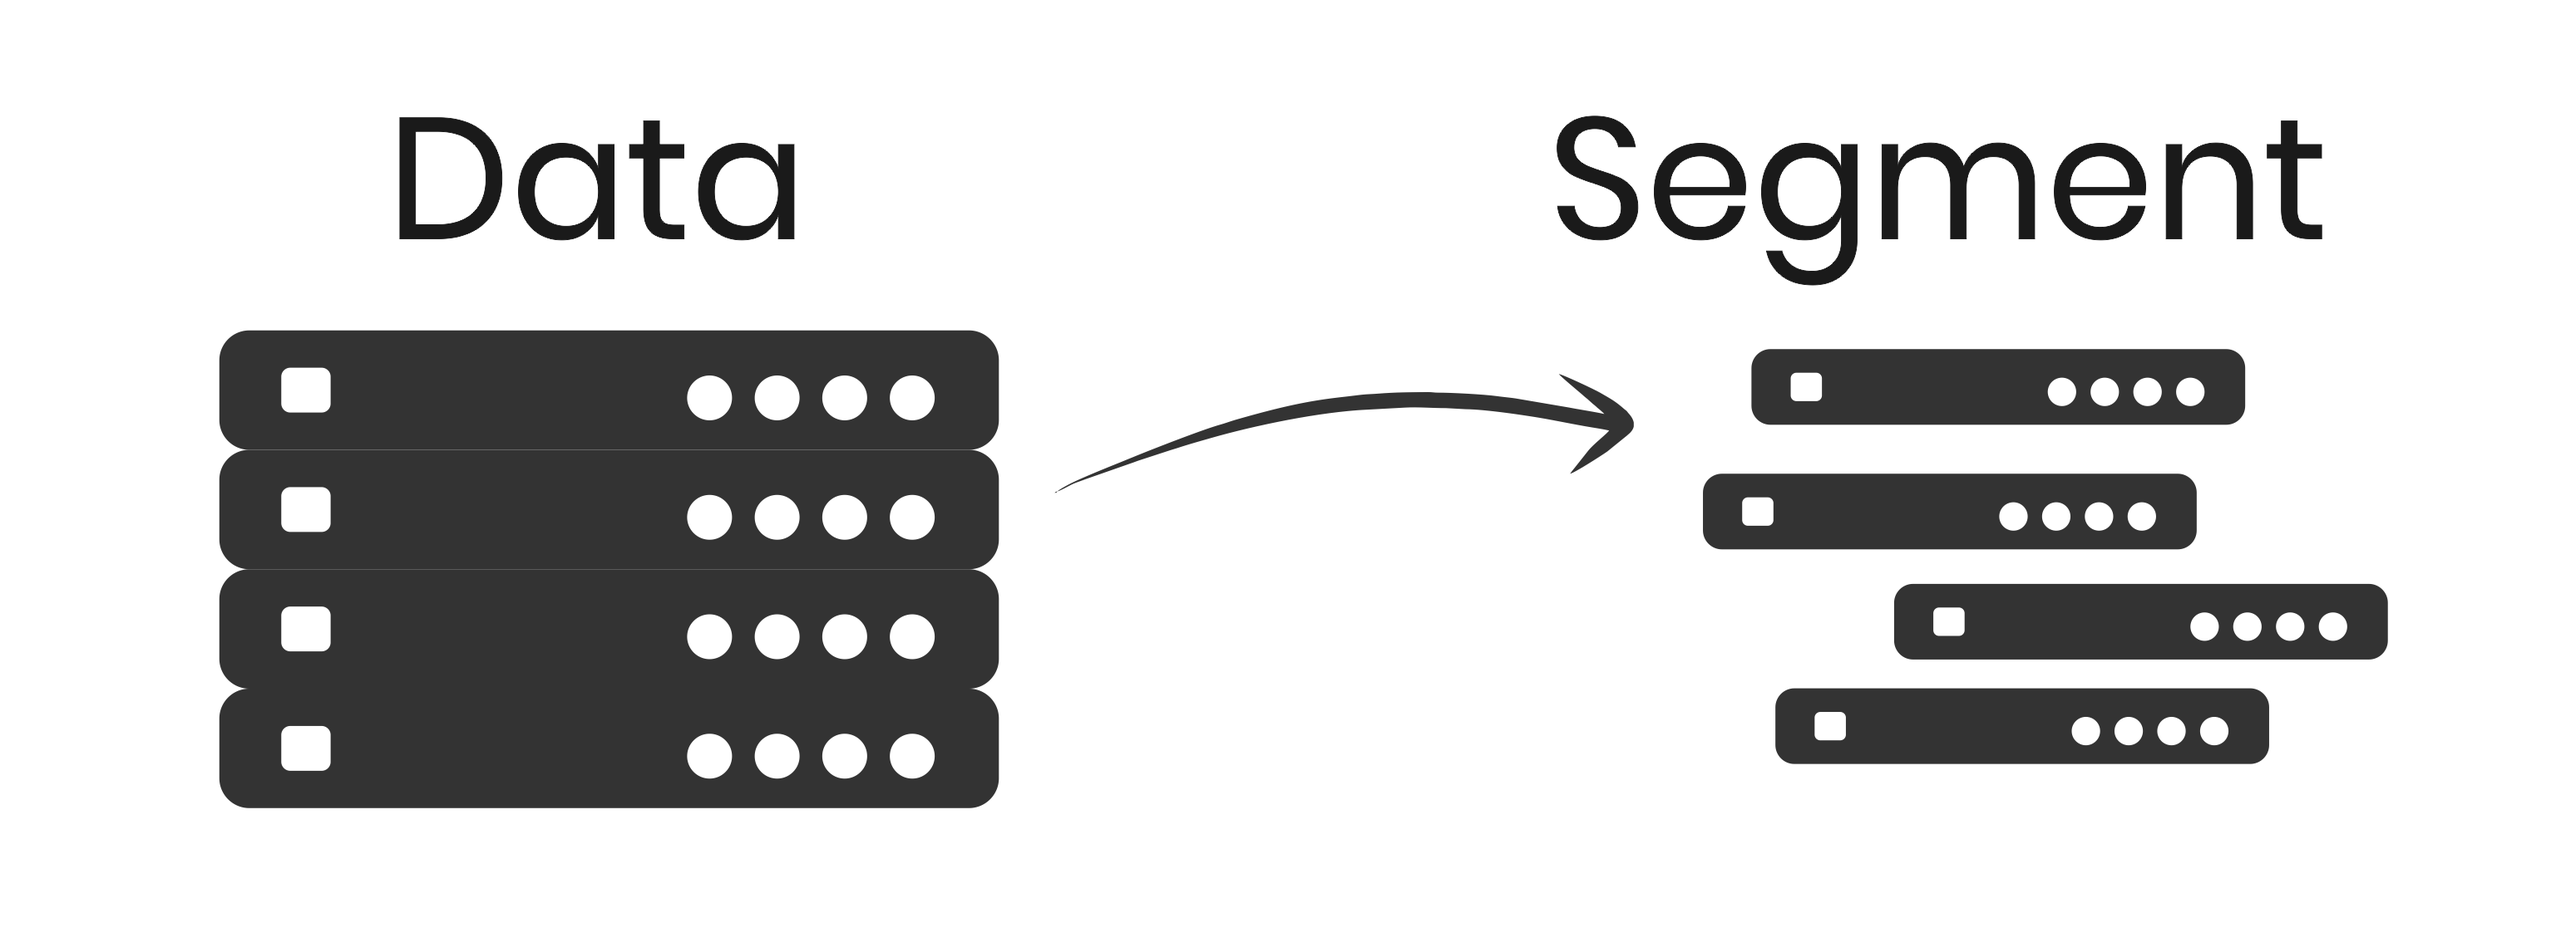
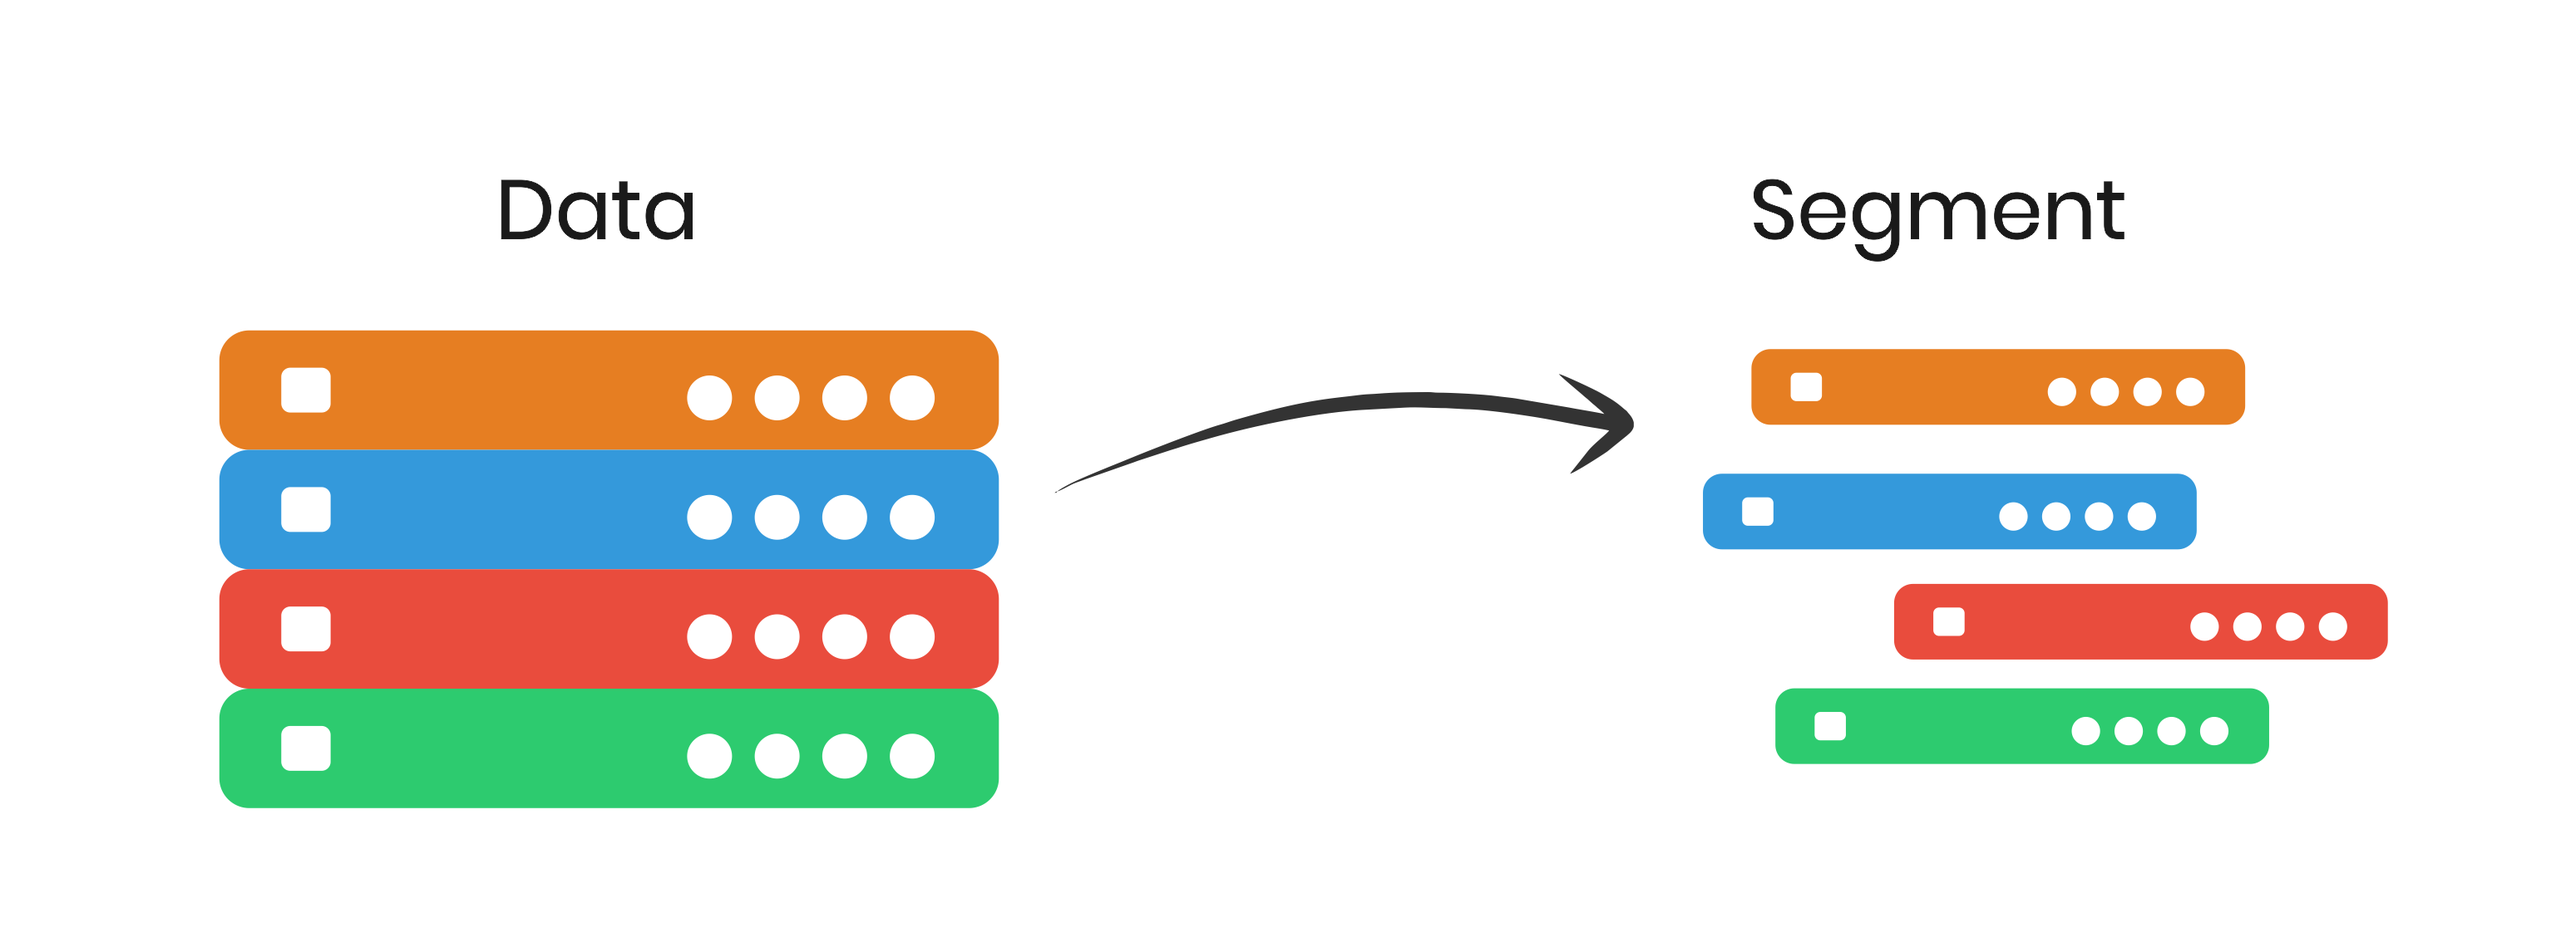
benerin logic soal dan layout materi

diff --git a/src/components/loopingsoal.jsx b/src/components/loopingsoal.jsx
@@ -93,8 +93,15 @@ const Contohsoal = ({
 
   const semuaSudahDijawab = jawaban.every((j) => j !== "");
 
+  const actionWrapperClass = singleSoal
+  ? "w-full md:w-1/4 md:fixed md:right-20 md:top-24 flex flex-col gap-3 p-4 border rounded-xl"
+  : "w-3/4 flex flex-col gap-3 p-4 mt-6";
+
+  const bolehNext = semuaSudahDijawab && (singleSoal || sudahDikoreksi);
+  const warnaNextButton = !bolehNext ? 'bg-gray-300 text-gray-600 cursor-not-allowed' : 'bg-green-500 text-white'
+
   return (
-    <div className="p-4 md:p-6 -mt-4 w-full">
+    <div className="md:p-6 md:-mt-4 w-full">
 
       {/* ================= POPUP NAMA ================= */}
       {showNamaPopup && (
@@ -111,12 +118,12 @@ const Contohsoal = ({
       <p className="text-2xl font-semibold">{JudulSoal}</p>
 
       {/* ================= KONTEN ================= */}
-      <section className="mt-4 w-full flex flex-col md:flex-row gap-6">
+      <section className="mt-4 w-full flex flex-col gap-6">
         
         {/* ===== SOAL ===== */}
         <div className="w-full md:w-3/4 flex flex-col gap-4">
         {showCountdown && (
-            <div className="md:hidden bg-white p-2 rounded block fixed right-5 top-16">
+            <div className="showCOuntDownMobile md:hidden bg-white p-2 rounded block fixed right-5 top-16">
               <p>Siswa waktu :</p>
             <Countdown
               value={formatTime(countdown)}
@@ -127,10 +134,10 @@ const Contohsoal = ({
             </div>
           )}
           {daftarSoal.map((soal, index) => (
-            <div key={index}>
+            <div key={index} className="flex flex-col p-4">
               <h1>{soal.pertanyaan}</h1>
 
-              <form className="mt-4 space-y-2">
+              <form className="space-y-2">
                 {soal.pilihanJawaban.map((pilihan, i) => (
                   <div key={i} className="flex gap-3 items-center">
                     <input
@@ -170,42 +177,38 @@ const Contohsoal = ({
           )}
         </div>
 
-        <div className="w-full md:w-1/4 md:fixed md:right-20 md:top-24 flex flex-col gap-3 p-4 border rounded-xl">
-          
-          {showCountdown && (
-            <div className="hidden md:block">
-              <p>Sisa waktu mengerjakan :</p>
-              <Countdown
-                value={formatTime(countdown)}
-                as="div"
-                size="text-5xl"
-                color="text-gray-700"
-                />
-            </div>
-          )}
+        <div className={actionWrapperClass}>
+        {showCountdown && singleSoal && (
+          <div className="hidden md:flex md:flex-col">
+            <p>Sisa waktu mengerjakan :</p>
+            <Countdown
+              value={formatTime(countdown)}
+              as="div"
+              size="text-5xl"
+              color="text-gray-700"
+            />
+          </div>
+        )}
 
-          <button
-            onClick={handleCheckAll}
-            disabled={!semuaSudahDijawab}
-            className="p-2 rounded bg-blue-500 text-white"
-          >
-            Cek Jawaban
-          </button>
+        <button
+          onClick={handleCheckAll}
+          disabled={!semuaSudahDijawab}
+          className="p-2 rounded bg-blue-500 text-white"
+        >
+          Cek Jawaban
+        </button>
 
-          {showNextButton && (
+        {showNextButton && (
           <button
             onClick={handleNext}
-            disabled={!semuaSudahDijawab}
-            className={`p-2 rounded ${
-              semuaSudahDijawab
-                ? "bg-green-500 text-white"
-                : "bg-gray-300 text-gray-600 cursor-not-allowed"
-            }`}
+            disabled={!bolehNext}
+            className={`p-2 rounded transition-colors duration-200 ${warnaNextButton}`}
           >
             Selanjutnya
           </button>
-          )}
-        </div>
+        )}
+      </div>
+
       </section>
 
       {/* ================= POPUP HASIL ================= */}

diff --git a/src/components/materi/datalinkLayer.jsx b/src/components/materi/datalinkLayer.jsx
@@ -2,6 +2,8 @@ import LogicMateri from '../materi1';
 import Contohsoal from '../loopingsoal';
 import dataLink from '../../assets/data-link.png'
 import dataLink2 from '../../assets/data-link2.png'
+import dataLinkMobile from '../../assets/data-link3.png'
+import dataLink3 from '../../assets/datalink.png'
 
 const DataLinkLayer = () => {
     return(
@@ -11,18 +13,26 @@ const DataLinkLayer = () => {
                     judulMateri: 'Data-Link Layer',
                     konten: [
                     { tipe: 'paragraf', isi: 'Data Link Layer berada satu tingkat di atas Physical Layer. Pada lapisan ini, sinyal mentah yang dikirimkan oleh Physical Layer mulai diorganisir menjadi frame, sehingga data dapat dikirim dan diterima dengan lebih andal antar perangkat yang terhubung langsung dalam satu jaringan lokal (LAN).' },
-                    { tipe: 'gambar', width:"md:w-3/4", url: dataLink, caption: 'Ilustrasi pengubahan data ke bentuk frame' },
+                    { tipe: 'gambar', width:"md:w-3/4", display:"hidden md:block", url: dataLink},
+                    { tipe: 'gambar', width:"md:w-full", display:"block md:hidden", url: dataLinkMobile, caption: 'Ilustrasi pengubahan data ke bentuk frame' },
                     {
                         tipe: 'layout',
                         arah: 'col',
                         items:[
-
-                            { tipe: 'gambar', width:"md:w-full", url: dataLink2, caption: 'ilustrasi penyebaran data menggunakan switch' },
-                            { tipe: 'paragraf', isi: 'Fungsi utama Data Link Layer meliputi pengalamatan fisik menggunakan MAC Address, pengendalian aliran data, serta pendeteksian kesalahan (error detection) menggunakan metode seperti CRC atau FCS. Layer ini juga mengatur kapan suatu perangkat boleh mengirimkan data agar tidak terjadi tabrakan data (collision).' },
+                            { tipe: 'gambar', width:"md:w-1/2 w-full", url: dataLink2, caption: 'ilustrasi penyebaran data menggunakan switch' },
+                            { tipe: 'paragraf', width:"md:w-1/2 w-full", isi: 'Fungsi utama Data Link Layer meliputi pengalamatan fisik menggunakan MAC Address, pengendalian aliran data, serta pendeteksian kesalahan (error detection) menggunakan metode seperti CRC atau FCS. Layer ini juga mengatur kapan suatu perangkat boleh mengirimkan data agar tidak terjadi tabrakan data (collision).' },
                         ]
                     },
                     { tipe: 'paragraf', isi: 'Contoh protokol dan perangkat yang bekerja pada Data Link Layer antara lain Ethernet, PPP, dan Switch. Dalam analogi belanja online, Data Link Layer berperan seperti petugas pos lokal yang memastikan alamat rumah penerima sudah benar sebelum paket dikirim lebih jauh.' },
-                    ]
+                    {
+                        tipe: 'layout',
+                        arah: 'col',
+                        items:[
+                            { tipe: 'gambar', width:"md:w-1/2 w-full", url: dataLink3, caption: 'ilustrasi framing data ke setiap perangkat dengan mac address berbeda' },
+                            { tipe: 'paragraf', width:"md:w-1/2 w-full", isi: 'Data Link Layer berfungsi untuk mengatur pengiriman data antar perangkat yang berada dalam satu jaringan lokal (LAN). Pada lapisan ini, data dibungkus menjadi frame dan diberi alamat fisik berupa MAC Address yang bersifat unik pada setiap perangkat jaringan. Alamat MAC berbeda dengan IP Address karena bersifat tetap dan tertanam pada perangkat keras.' },
+                        ]
+                    },
+                ]
                 }}
                 />
                 <Contohsoal

diff --git a/src/components/materi/transportLayer.jsx b/src/components/materi/transportLayer.jsx
@@ -1,5 +1,6 @@
 import osiLayer from "../../assets/osi-layer.png";
 import Segment from "../../assets/segment.png";
+import Segment1 from "../../assets/segmentMobile.png";
 import kurir from "../../assets/kurir.jpg";
 import LogicMateri from '../materi1';
 import Contohsoal from '../loopingsoal';
@@ -14,13 +15,14 @@ const TransportLayer = () => {
                     konten: [
                     { tipe: 'paragraf', isi: 'Lapisan ini berada diatas Network Layer. Nah, kalau Network Layer sudah memastikan data bisa melewati berbagai jaringan dan sampai ke IP Address tujuan, maka Transport Layer bertugas untuk mengatur bagaimana data itu dikirim dan diterima dengan aman, utuh, dan berurutan.' },
                     { tipe: 'paragraf', isi: 'Fungsi utama dari Layer ini adalah untuk ememcah data menjadi berbagai segmen kecil agar bisa dikirim bertahap untuk menjaga keandalan saat pengiriman data, dan mengatur aliran data. Disini tugas network layer itu sama persis seperti kurir yang memastikan paket sampai di tujuan dengan aman' },
-                    { tipe: 'gambar', width: 'md:w-3/4', url:Segment, caption:'Proses pengolahan data menjadi segment' },
+                    { tipe: 'gambar', width: 'md:w-3/4', url: Segment, display: 'hidden md:block'},
+                    { tipe: 'gambar', width: 'w-10/12', url: Segment1, display: 'block md:hidden', caption:'Proses pengolahan data menjadi segment' },
                     { tipe: 'paragraf', isi: 'Dari yang sudah dijelaskan sebelumnya, beberapa layer di OSI Layer itu dapat di misalkan seperti berbagai pihak yang terlibat di kegiatan belanja online seperti e Commerce, ekspedisi, kurir, dan penerima. Jadi untuk memudahkan identifikasi di layer mana kah data yang dikirim atau diterima bermasalah. Untuk cara kerja nya saat mengirimkan data dimulai dari Physical layer menuju Application Layer, sebaliknya untuk proses penerimaan data dimulai dari layer paling Application layer dan diteruskan hingga ke physical layer.' },
                     {
                         tipe: 'layout',
                         arah: 'col',
                         items:[
-                            { tipe: 'gambar', url:kurir, caption:'Contoh kurir sebagai pengirim data' },
+                            { tipe: 'gambar', url:kurir, display: 'block md:hidden', caption:'Contoh kurir sebagai pengirim data' },
                             { tipe: 'paragraf', isi: 'Di Transport Layer juga terdapat dua protocol penting untuk proses pengiriman data, yaitu TCP dan UDP. TCP merupakan protocol yang berfungsi untuk memastikan setiap data dikirim secara berurutan dan lengkap, sedangkan UDP merupakan protocol pengiriman data dengan lebih cepat tanpa jaminan data sampai dengan utuh.' },
                         ]
                     },

diff --git a/src/components/materi/applicationlayer.jsx b/src/components/materi/applicationlayer.jsx
@@ -12,8 +12,13 @@ const ApplicationLayer = () => {
                     konten: [
                     { tipe: 'paragraf', isi: 'Layer atau lapisan yang menyediakan kebutuhan antarmuka antara pengguna dan jaringan. Semua aplikasi atau software yang sering kalian gunakan untuk mengirim data seperti browser, WhatsApp, dll bekerja di layer ini' },
                     { tipe: 'paragraf', isi: 'FUngsi layer ini adalah menyediakan layanan jaringan untuk aplikasi pengguna seperti HTTP, SMTP, FTP, DNS, selain itu layer ini berfungsi untuk menyiapkan data agar dapat dikirim melalui layer yang berada dibawahnya, dan mengatur sesi komunikasi antar aplikasi.' },
-                    { tipe: 'gambar', url:applayerIlustrasi, caption:'Ilustrasi proses pengiriman data kepada pengguna' },
-                    { tipe: 'paragraf', isi: 'Contoh nya adalah ketika mengirim pesan lewat WhatsApp, disinilah pesan yang telah diketik berubah jadi format teks digital dan siap dikirimkan ke layer yang berada dibawahnya.' },
+                    {tipe: 'layout', 
+                        arah: 'col',
+                        items:[
+                            { tipe: 'gambar', width: 'w-full md:w-3/4', url:applayerIlustrasi, caption:'Ilustrasi proses pengiriman data kepada pengguna' },
+                            { tipe: 'paragraf', isi: 'Contoh nya adalah ketika mengirim pesan lewat WhatsApp, disinilah pesan yang telah diketik berubah jadi format teks digital dan siap dikirimkan ke layer yang berada dibawahnya.' },
+                        ]
+                    },
                     ]
                 }}
                 />

diff --git a/src/components/materi1.jsx b/src/components/materi1.jsx
@@ -32,7 +32,7 @@ const Materi1 = ({ penjelasanMateri }) => {
               <img
                 src={item.url}
                 alt="Gambar"
-                className={`gambar my-4 w-full ${item.width || ""}`}
+                className={`gambar my-4 w-full ${item.width || ""} ${item.display || ""}`}
               />
               {item.caption && (
                 <div className="caption text-sm text-gray-600 text-center">
@@ -54,7 +54,7 @@ const Materi1 = ({ penjelasanMateri }) => {
                   return (
                     <div
                       key={j}
-                      className={`w-full md:w-${sub.width || "1/2"}`}
+                      className={`${sub.width || ""}`}
                     >
                       <img
                         src={sub.url}
@@ -74,7 +74,7 @@ const Materi1 = ({ penjelasanMateri }) => {
                   return (
                     <p
                       key={j}
-                      className="subparagraf w-full md:w-1/2 text-justify leading-relaxed"
+                      className={`subparagraf w-full md:w-1/2 text-justify leading-relaxed md:w-${sub.width || ""}`}
                       dangerouslySetInnerHTML={{ __html: sub.isi }}
                     />
                   );

diff --git a/src/components/popupnama.jsx b/src/components/popupnama.jsx
@@ -14,7 +14,7 @@ const PopupNama = ({ onSubmit }) => {
     <div className="fixed inset-0 bg-black/50 flex justify-center items-center z-50">
       <div className="bg-white rounded-xl shadow-lg p-6 w-96 text-center">
         <h2 className="text-xl font-bold mb-4">Sebelum mulai tes</h2>
-        <form onSubmit={handleSubmit} className="flex flex-col gap-4">
+        <form  onSubmit={handleSubmit} className="flex flex-col gap-4">
           <div className="teks">
             <p>Tes ini berlangsung selama 10 menit. Setelah waktu habis, hasil tes akan ditampilkan secara otomatis.</p>
             <p>Pastikan semua soal terjawab untuk menyelesaikan tes ini</p>

diff --git a/src/components/materi/jaringanKomputer.jsx b/src/components/materi/jaringanKomputer.jsx
@@ -19,7 +19,7 @@ const Jaringan = () => {
                     arah: 'col',
                     items: [
                     {
-                      tipe: 'gambar', url: olshop, 
+                      tipe: 'gambar', url: olshop, width:'md:w-3/4', 
                       caption: 'Analogi OSI Model adalah seperti belanja online' 
                     },
                     { 
